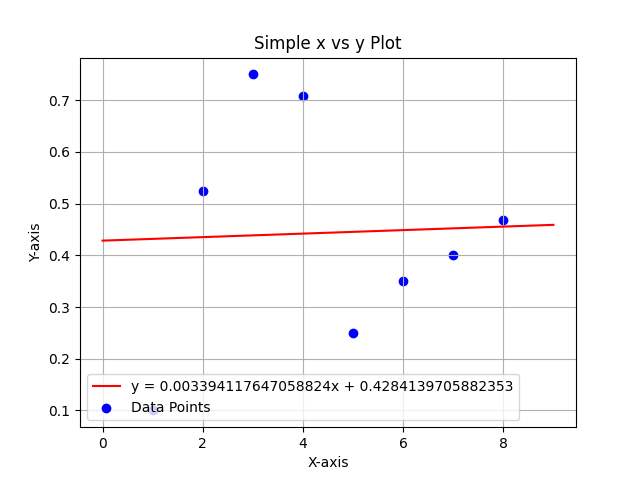
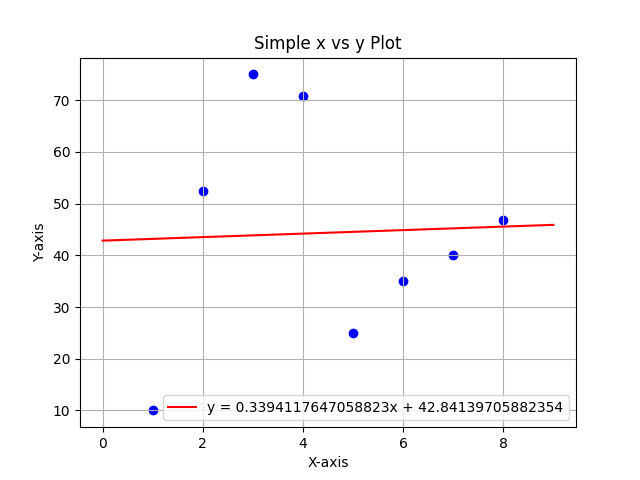
class matrix

diff --git a/ml.py b/ml.py
@@ -191,7 +191,19 @@ def ridreg(m, v):
     print("Intercept:", reg.intercept_)
     return reg.coef_, reg.intercept_
 
+class matrix:
+    def __init__(self, m):
+        self.m = m 
+        self.shape = m.shape
+    def det(self):
+        determinant = np.linalg.det(self)
+        return determinant
+    def dim(self):
+        nr, nc = self.shape
+        return nr, nc 
 
+a = matrix(inp_m())
+print(a.det())
 
 
 

diff --git a/g.py b/g.py
@@ -8,7 +8,7 @@ def pxy(x,y,m,c):
     x_line = np.linspace(x_min, x_max, 150)
     y_line = m * x_line + c
     plt.plot(x_line, y_line, color = 'red', label = f'y = {m}x + {c}')
-    plt.scatter(x, y, color = 'blue', label='Data Points')
+    plt.scatter(x, y, color = 'blue')
     plt.title("Simple x vs y Plot")
     plt.xlabel("X-axis")
     plt.ylabel("Y-axis")

diff --git a/rushita.py b/rushita.py
@@ -3,6 +3,7 @@ import g, ml, numpy
 x = [1,2,3,4,5,6,7,8]
 y = [0.1,0.525,0.75,0.708,0.249,0.35,0.4,0.4675]
 rx = [[f] for f in x]
-m, c = ml.ridreg(rx,y)
+ry = [100*u for u in y]
+m, c = ml.ridreg(rx,ry)
 
-g.pxy(x,y,m[0],c)
+g.pxy(x,ry,m[0],c)
